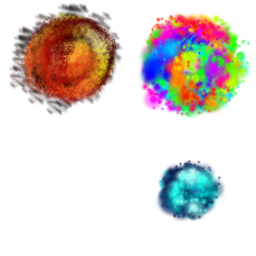
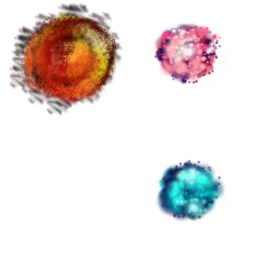
New particle added for enemy bullet tails.

Changed region(s): [[0.5312, 0.0312, 1.0, 0.4688]]

diff --git a/src/Engine/Component/ParticleEmitter.hpp b/src/Engine/Component/ParticleEmitter.hpp
@@ -18,7 +18,7 @@ namespace Component {
             /// Texture corresponding to index in particle atlas texture.
             enum ParticleTextureIndex {
                 FIRE = 0, ///< Fire particle
-                PRIDE, ///< Pride particle
+                PURPLE, ///< Pride particle
                 DUST, ///< Dust particle
                 BLUE, ///< Blue particle
             };
